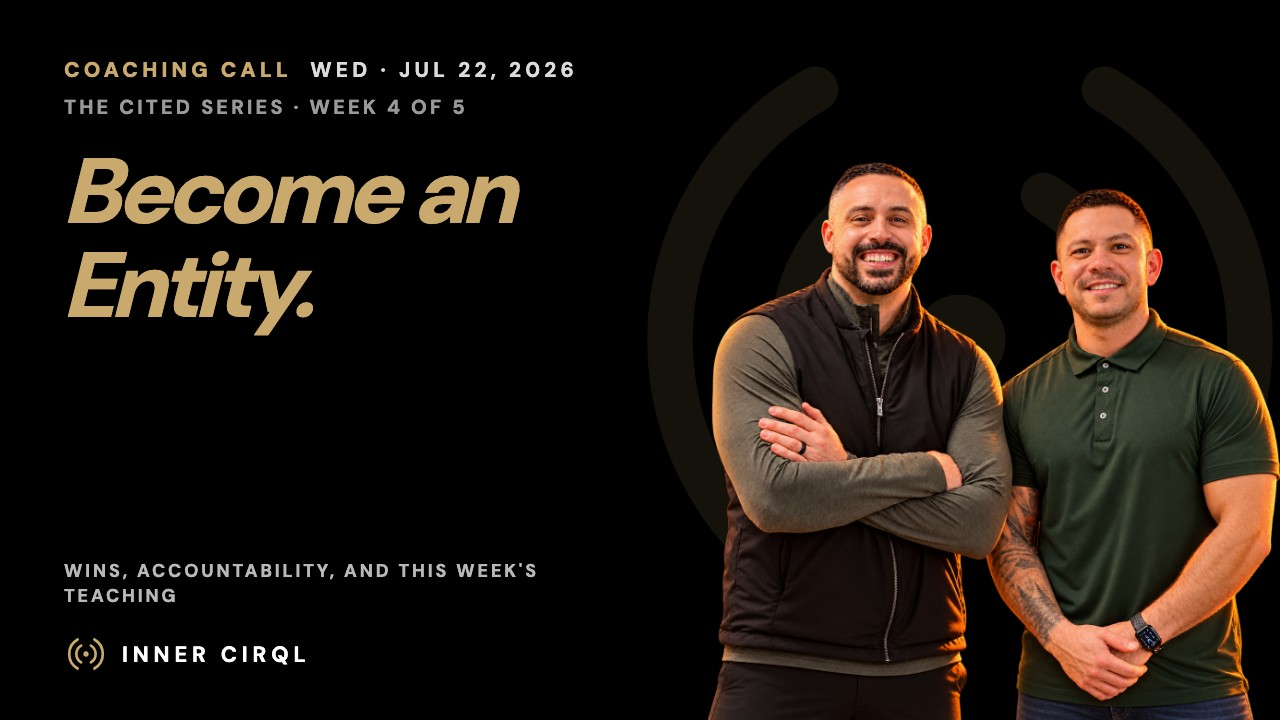
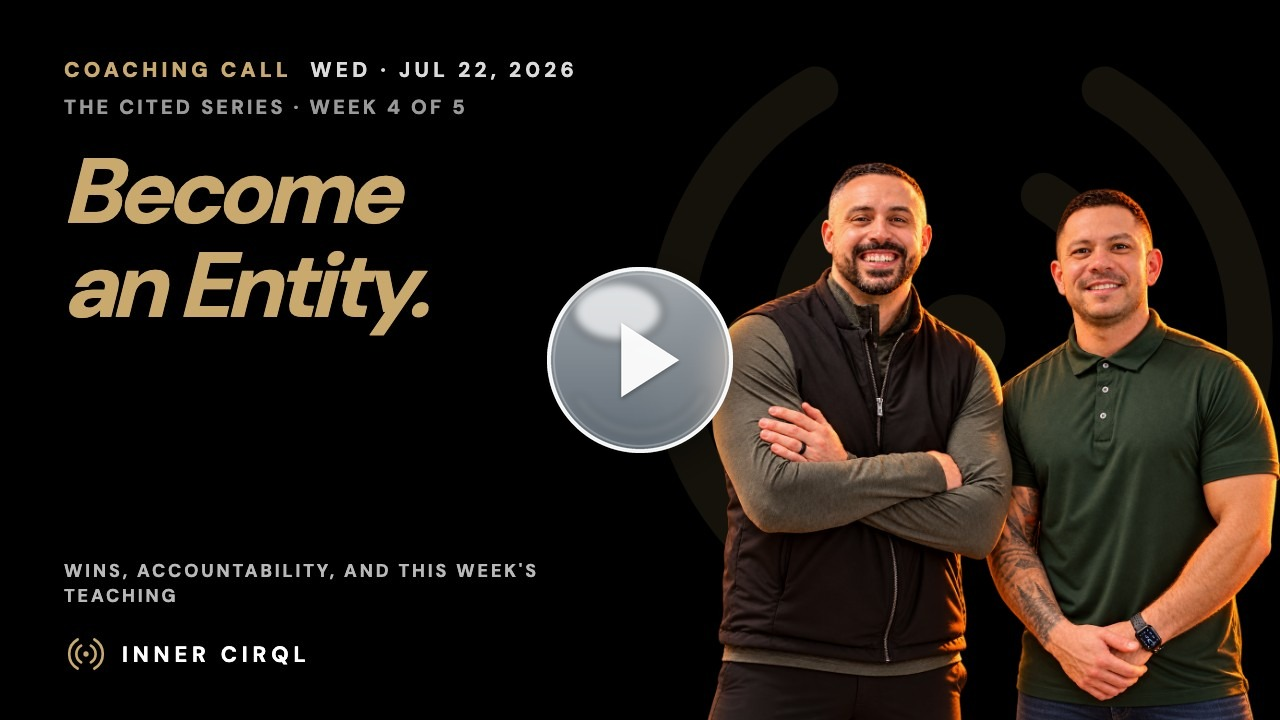
Training: retitle Jul 22 coaching call (The CITED Series · Week 4 · Entity.) + thumbnail

diff --git a/training/index.html b/training/index.html
@@ -94,6 +94,26 @@ window.LIBRARY = {
   ],
   "items": [
     {
+      "id": "v-2026-07-22",
+      "date": "2026-07-22",
+      "dateLabel": "July 22, 2026",
+      "series": "cited",
+      "week": 4,
+      "name": "Entity.",
+      "title": "The CITED Series · Week 4 · Entity.",
+      "headline": [
+        "Become an",
+        "Entity."
+      ],
+      "sub": "The CITED Series · Week 4 of 5",
+      "desc": "The CITED Series, Week 4: Entity: lock your Google Business Profile, the most-trusted entity source AI has. Wins, accountability, and the teaching segment, edited replay.",
+      "href": "https://coach.theinnercirql.com/2026-07-22/",
+      "pdf": null,
+      "slides": null,
+      "embed": "https://www.youtube.com/embed/HIqV88Ujlto?rel=0&modestbranding=1",
+      "thumb": "/assets/thumbs/jul-22-call.jpg?v=29920124"
+    },
+    {
       "id": "v-2026-07-15",
       "date": "2026-07-15",
       "dateLabel": "July 15, 2026",
@@ -532,26 +552,6 @@ window.LIBRARY = {
       "slides": null,
       "embed": "https://www.youtube.com/embed/4ZNhl1TQDds?rel=0&modestbranding=1",
       "thumb": "/assets/thumbs/jul-29-call.jpg?v=1"
-    },
-    {
-      "id": "v-2026-07-22",
-      "date": "2026-07-22",
-      "dateLabel": "July 22, 2026",
-      "series": "cited",
-      "week": 4,
-      "name": "Entity.",
-      "title": "The CITED Series · Week 4 · Entity.",
-      "headline": [
-        "Become an",
-        "Entity."
-      ],
-      "sub": "The CITED Series · Week 4 of 5",
-      "desc": "The CITED Series, Week 4: Entity: lock your Google Business Profile, the most-trusted entity source AI has. Wins, accountability, and the teaching segment, edited replay.",
-      "href": "https://coach.theinnercirql.com/2026-07-22/",
-      "pdf": null,
-      "slides": null,
-      "embed": "https://www.youtube.com/embed/HIqV88Ujlto?rel=0&modestbranding=1",
-      "thumb": "/assets/thumbs/jul-22-call.jpg?v=1"
     },
     {
       "id": "t-become-a-listing-magnet",
